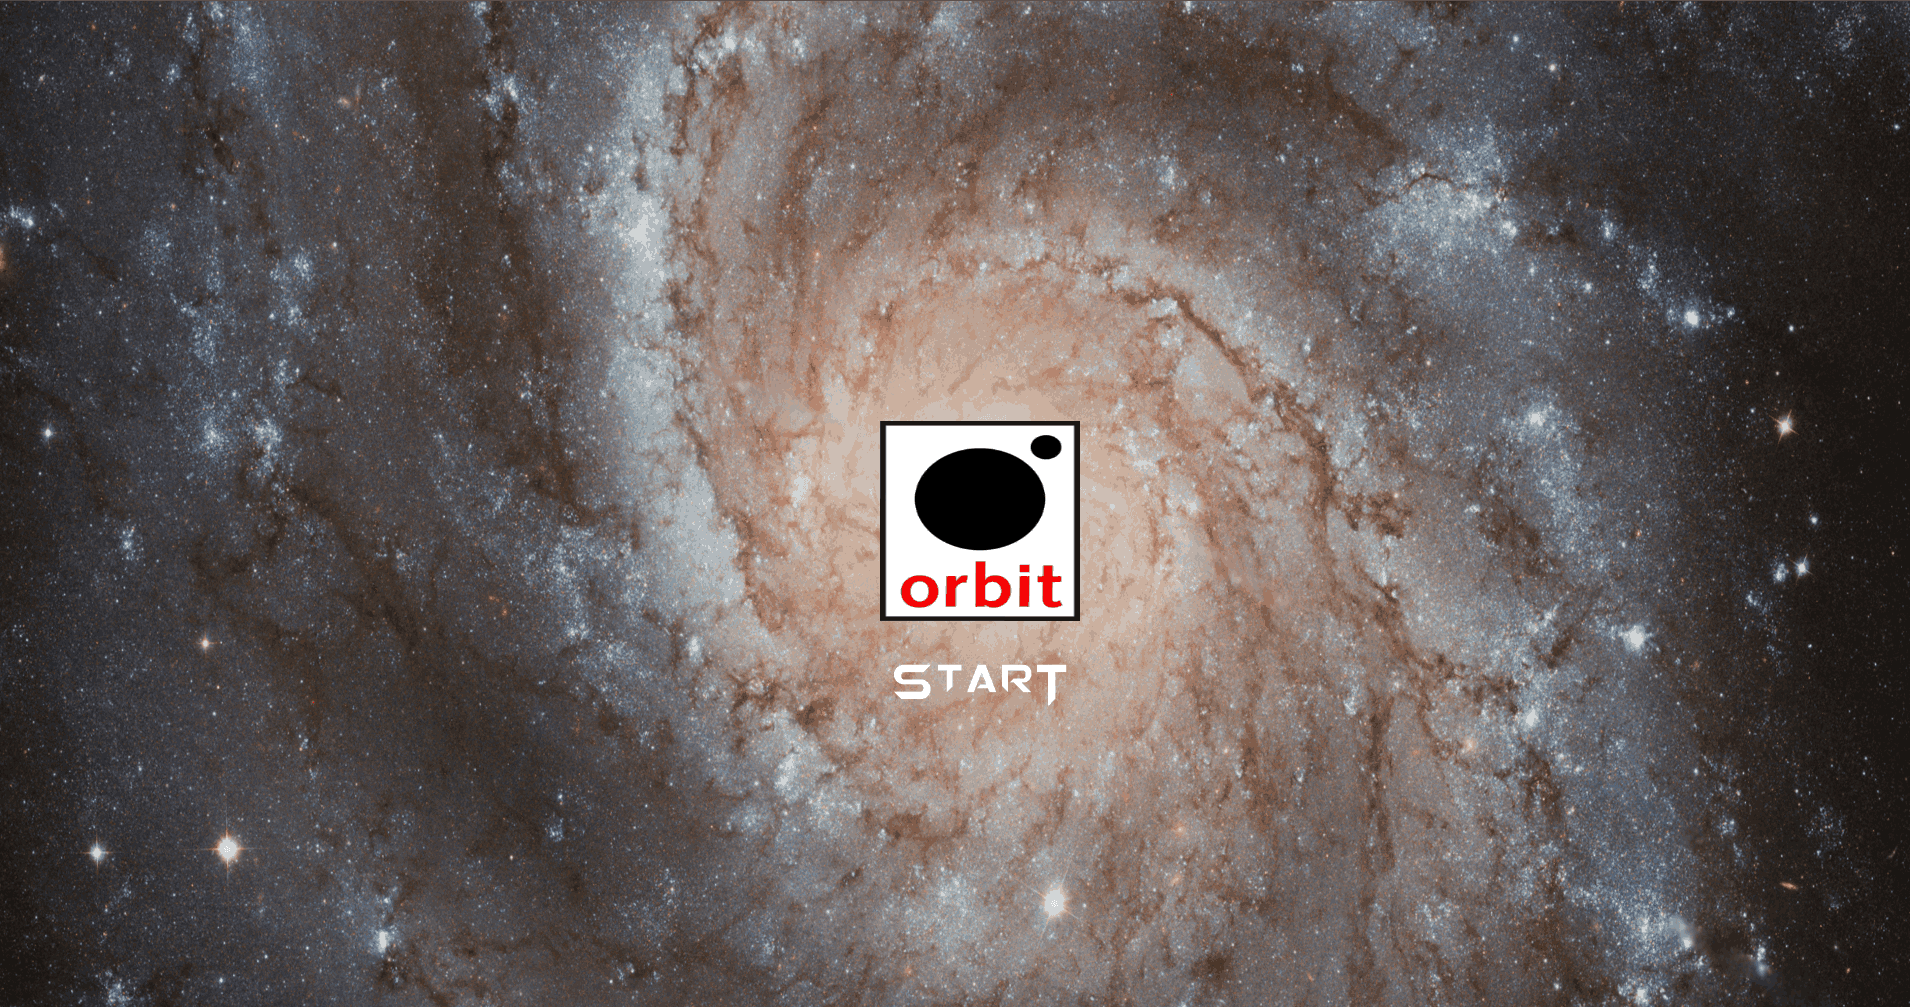
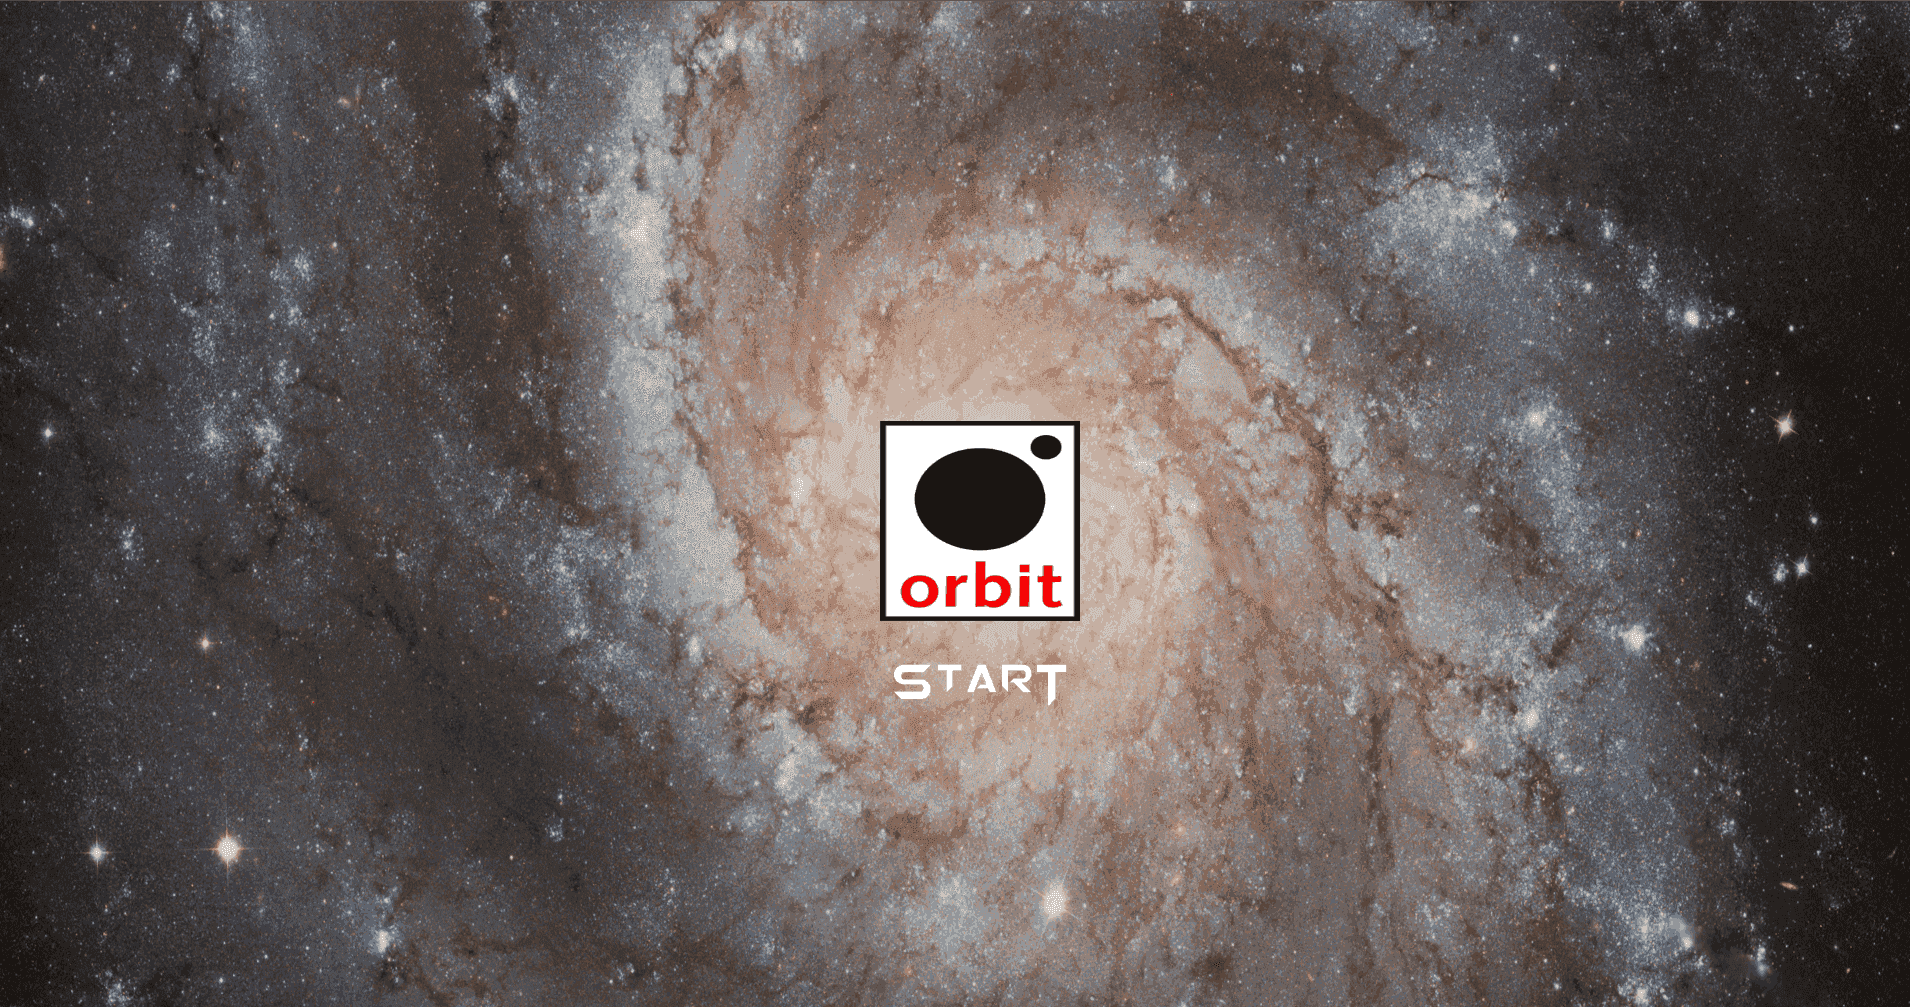
compressed more images more

diff --git a/index.html b/index.html
@@ -81,7 +81,7 @@
 
       </div>
     </div>
-    <div class="parallax"><img id="background1" src="images/background1.jpg" alt="Unsplashed background img 2"></div>
+    <div class="parallax"><img id="background1" src="images/background1-min.jpg" alt="Unsplashed background img 2"></div>
   </div>
 
 
